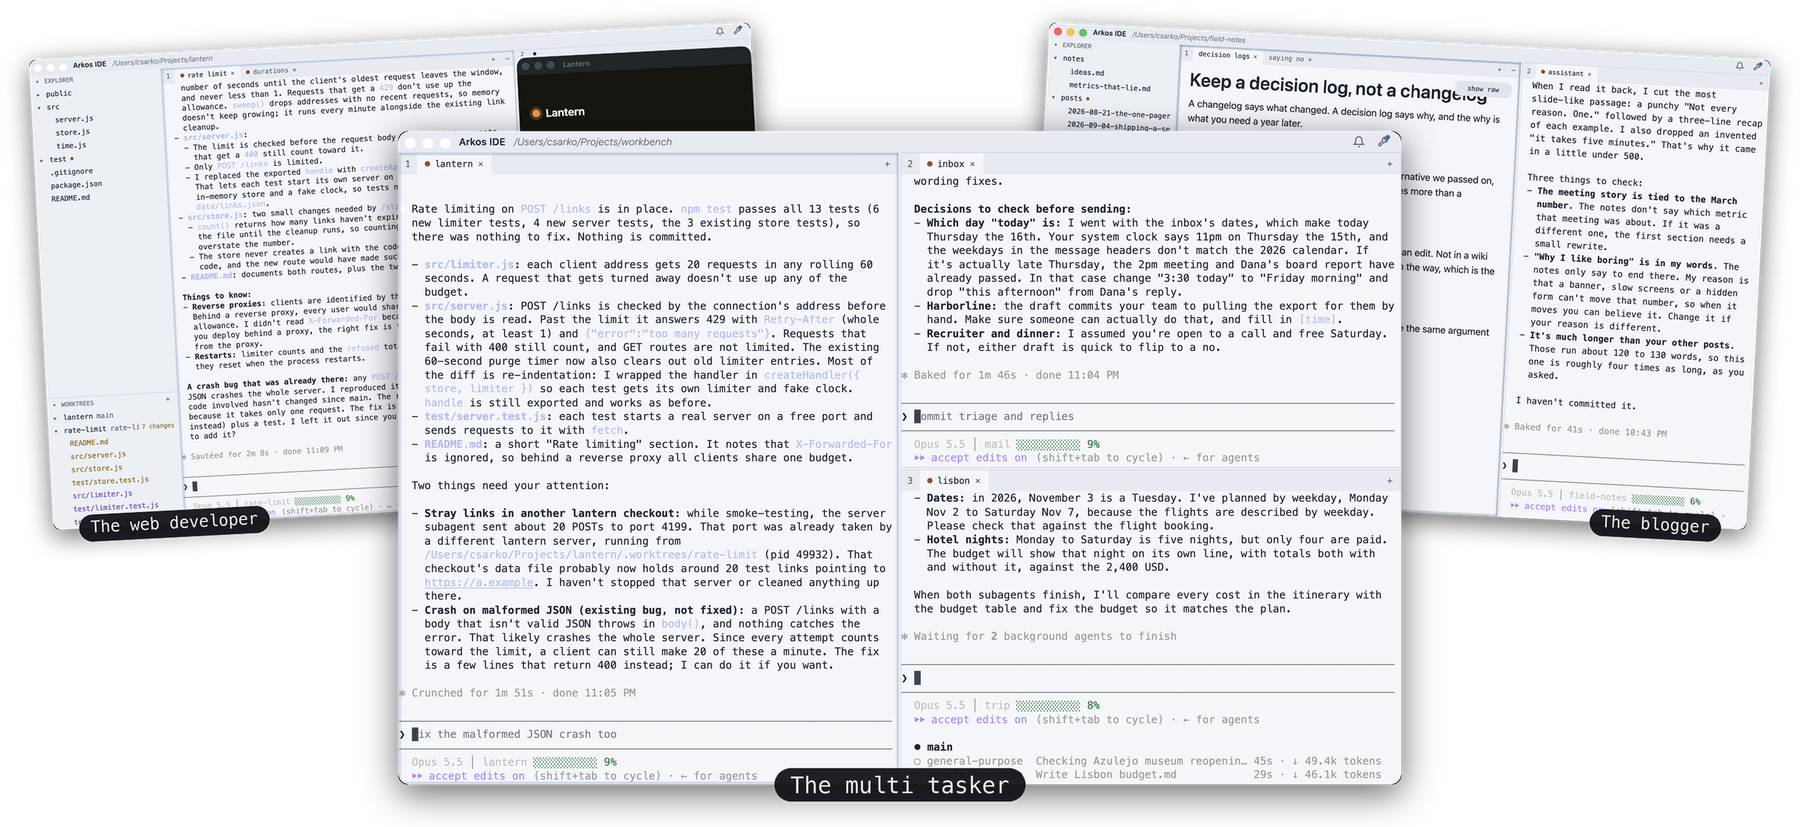
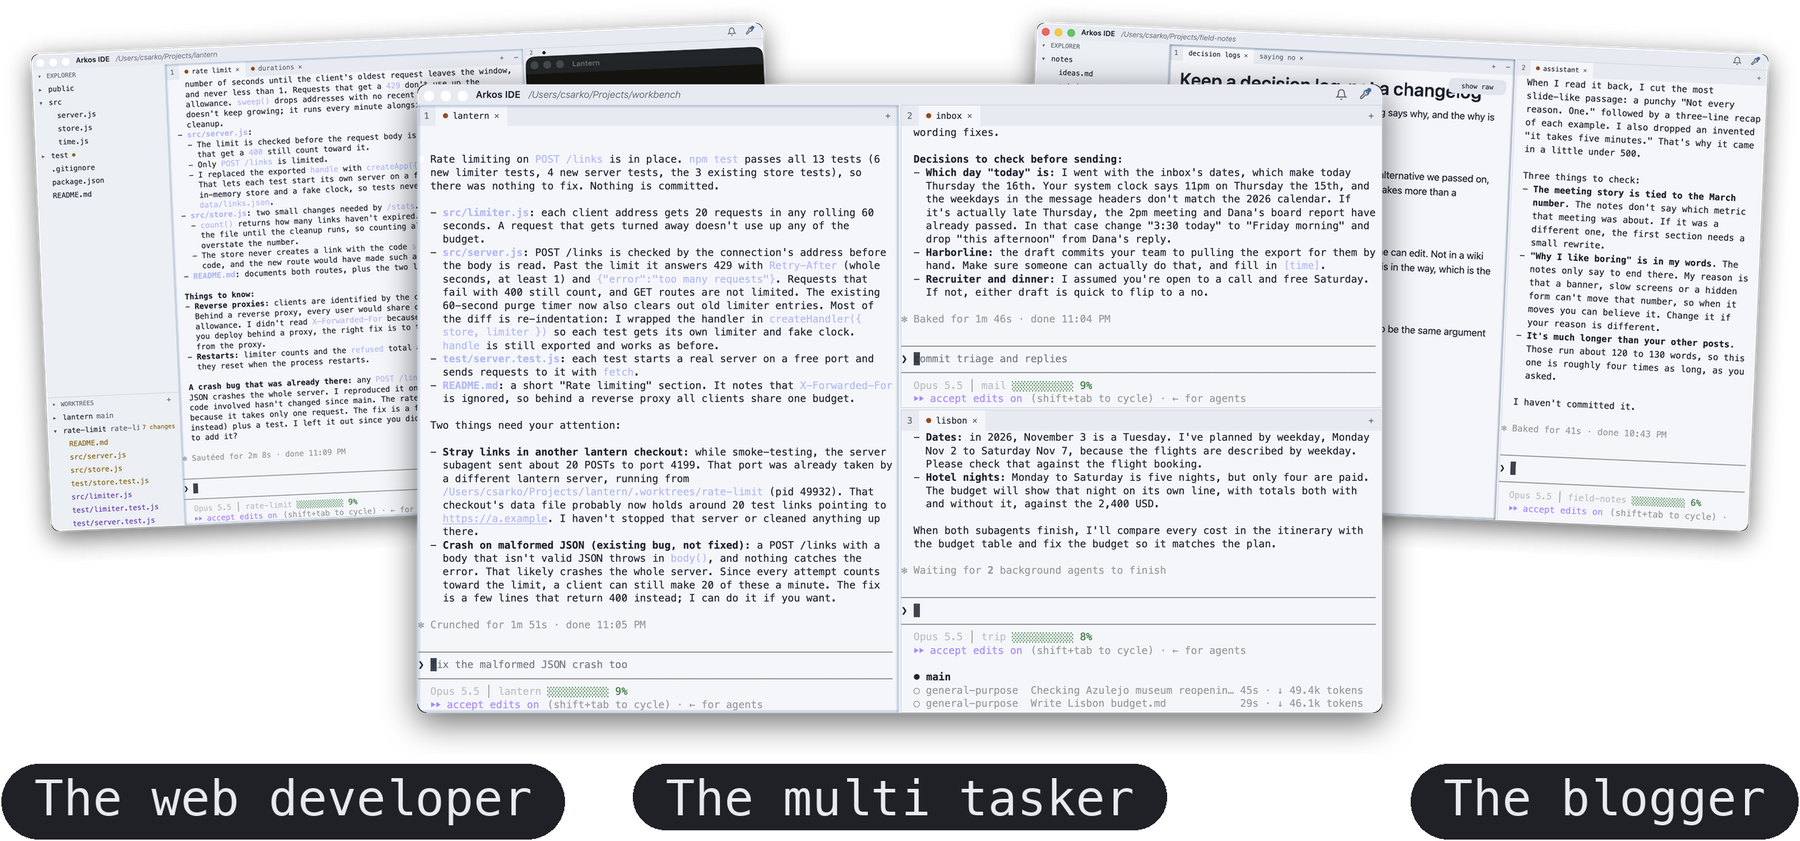
frame.py: the hero's captions in a band under the stills, sized for the README's width

diff --git a/scripts/shoot/frame.py b/scripts/shoot/frame.py
@@ -47,58 +47,64 @@ def framed(window):
 
 
 CAPTION_FONT = "/System/Library/Fonts/Menlo.ttc"
-CAPTION_SIZE = 30 * SCALE
-CAPTION_PAD = (22 * SCALE, 11 * SCALE)
-CAPTION_GAP = 10 * SCALE
+# Sized for the README: GitHub shows the picture about 830 px wide, a third of its 2520 px
+# canvas, so a 68 px caption reads at about 22 px there, and the longest ("The web developer")
+# still fits the third of the width under its still.
+CAPTION_SIZE = 34 * SCALE
+CAPTION_PAD = (24 * SCALE, 11 * SCALE)
+CANVAS_W = 1260 * SCALE
+OUT_W = 1800
 
 
-def captioned(still, text, align):
-    """The still with its caption on its bottom edge: a dark pill with light text, readable on
-    light and dark pages alike, hung on the window's lower border at the left, centre or right
-    (the side the still shows from behind the front one)."""
+def caption_pill(text):
+    """A dark pill with light text, readable on light and dark pages alike."""
     font = ImageFont.truetype(CAPTION_FONT, CAPTION_SIZE)
     probe = ImageDraw.Draw(Image.new("RGBA", (1, 1)))
     box = probe.textbbox((0, 0), text, font=font)
     tw, th = box[2] - box[0], box[3] - box[1]
     pw, ph = tw + 2 * CAPTION_PAD[0], th + 2 * CAPTION_PAD[1]
-    inset = 44 * SCALE
-    px = {"left": PAD + inset, "center": (still.width - pw) // 2, "right": still.width - PAD - inset - pw}[align]
-    py = still.height - PAD - ph // 2
-    out = still.copy()
-    pill = Image.new("RGBA", out.size, (0, 0, 0, 0))
-    ImageDraw.Draw(pill).rounded_rectangle((px, py, px + pw, py + ph), radius=ph // 2, fill=(17, 19, 24, 240), outline=(232, 234, 240, 70), width=SCALE)
-    out.alpha_composite(pill)
-    ImageDraw.Draw(out).text((px + CAPTION_PAD[0] - box[0], py + CAPTION_PAD[1] - box[1]), text, font=font, fill=(232, 234, 240, 255))
-    return out
+    pill = Image.new("RGBA", (pw, ph), (0, 0, 0, 0))
+    draw = ImageDraw.Draw(pill)
+    draw.rounded_rectangle((0, 0, pw - 1, ph - 1), radius=ph // 2, fill=(17, 19, 24, 240), outline=(232, 234, 240, 70), width=SCALE)
+    draw.text((CAPTION_PAD[0] - box[0], CAPTION_PAD[1] - box[1]), text, font=font, fill=(232, 234, 240, 255))
+    return pill
 
 
 def compose(out, pieces):
-    """pieces: [(path, caption)], the first in front. The backs are scaled down and tilted a
-    little, set behind and to the sides, higher than the front; the front sits lower and
-    centred, as Day Hike's postcards do, and each still carries its caption where it shows."""
-    front_w = 1520 * SCALE // 2
-    back_w = round(front_w * 0.72)
-    front = captioned(Image.open(pieces[0][0]).convert("RGBA"), pieces[0][1], "center")
+    """pieces: [(path, caption)], the first in front. The backs stand half behind the front
+    one, a little higher and tilted, as Day Hike's postcards do; each caption sits in a band
+    under the stills, centred on the part of its still that shows, large enough to read at the
+    size a README shows the picture."""
+    W = CANVAS_W
+    front = Image.open(pieces[0][0]).convert("RGBA")
+    front_w = round(W * 0.58)
     front = front.resize((front_w, round(front.height * front_w / front.width)), Image.Resampling.LANCZOS)
-    placed = []
-    for i, (path, caption) in enumerate(pieces[1:]):
-        side = "left" if i % 2 == 0 else "right"
-        b = captioned(Image.open(path).convert("RGBA"), caption, side)
+    back_w = round(W * 0.44)
+    backs = []
+    for i, (path, _) in enumerate(pieces[1:]):
+        b = Image.open(path).convert("RGBA")
         b = b.resize((back_w, round(b.height * back_w / b.width)), Image.Resampling.LANCZOS)
-        b = b.rotate(3.0 if side == "left" else -3.0, expand=True, resample=Image.Resampling.BICUBIC)
-        placed.append((side, b))
-    # The backs show by almost half their width beside the front and rise above it.
-    peek = round(back_w * 0.46)
-    rise = round(front.height * 0.14)
-    width = front.width + 2 * peek
-    height = max([rise + front.height] + [b.height for _, b in placed]) + 4 * SCALE
-    canvas = Image.new("RGBA", (width, height), (0, 0, 0, 0))
-    for side, b in placed:
-        canvas.alpha_composite(b, (0 if side == "left" else width - b.width, 0))
-    canvas.alpha_composite(front, ((width - front.width) // 2, rise))
+        b = b.rotate(2.5 if i % 2 == 0 else -2.5, expand=True, resample=Image.Resampling.BICUBIC)
+        backs.append(b)
+    front_x = (W - front_w) // 2
+    front_y = round(front.height * 0.08)
+    stills_bottom = max([front_y + front.height] + [b.height for b in backs])
+    pills = [caption_pill(c) for _, c in pieces]
+    band_y = stills_bottom + 6 * SCALE
+    height = band_y + max(p.height for p in pills) + 4 * SCALE
+    canvas = Image.new("RGBA", (W, height), (0, 0, 0, 0))
+    centres = [W // 2]
+    for i, b in enumerate(backs):
+        x = 0 if i % 2 == 0 else W - b.width
+        canvas.alpha_composite(b, (x, 0))
+        # The part of the back the front leaves showing.
+        centres.append(front_x // 2 if i % 2 == 0 else (front_x + front_w + W) // 2)
+    canvas.alpha_composite(front, (front_x, front_y))
+    for pill, cx in zip(pills, centres):
+        x = min(max(cx - pill.width // 2, 0), W - pill.width)
+        canvas.alpha_composite(pill, (x, band_y))
     canvas = canvas.crop(canvas.getbbox())
-    # 1800 px wide: twice the width a README shows it at, a third of the bytes of the raw size.
-    canvas = canvas.resize((1800, round(canvas.height * 1800 / canvas.width)), Image.Resampling.LANCZOS)
+    canvas = canvas.resize((OUT_W, round(canvas.height * OUT_W / canvas.width)), Image.Resampling.LANCZOS)
     canvas.save(out, optimize=True)
     print(f"{out}: {canvas.width}x{canvas.height}")
 
